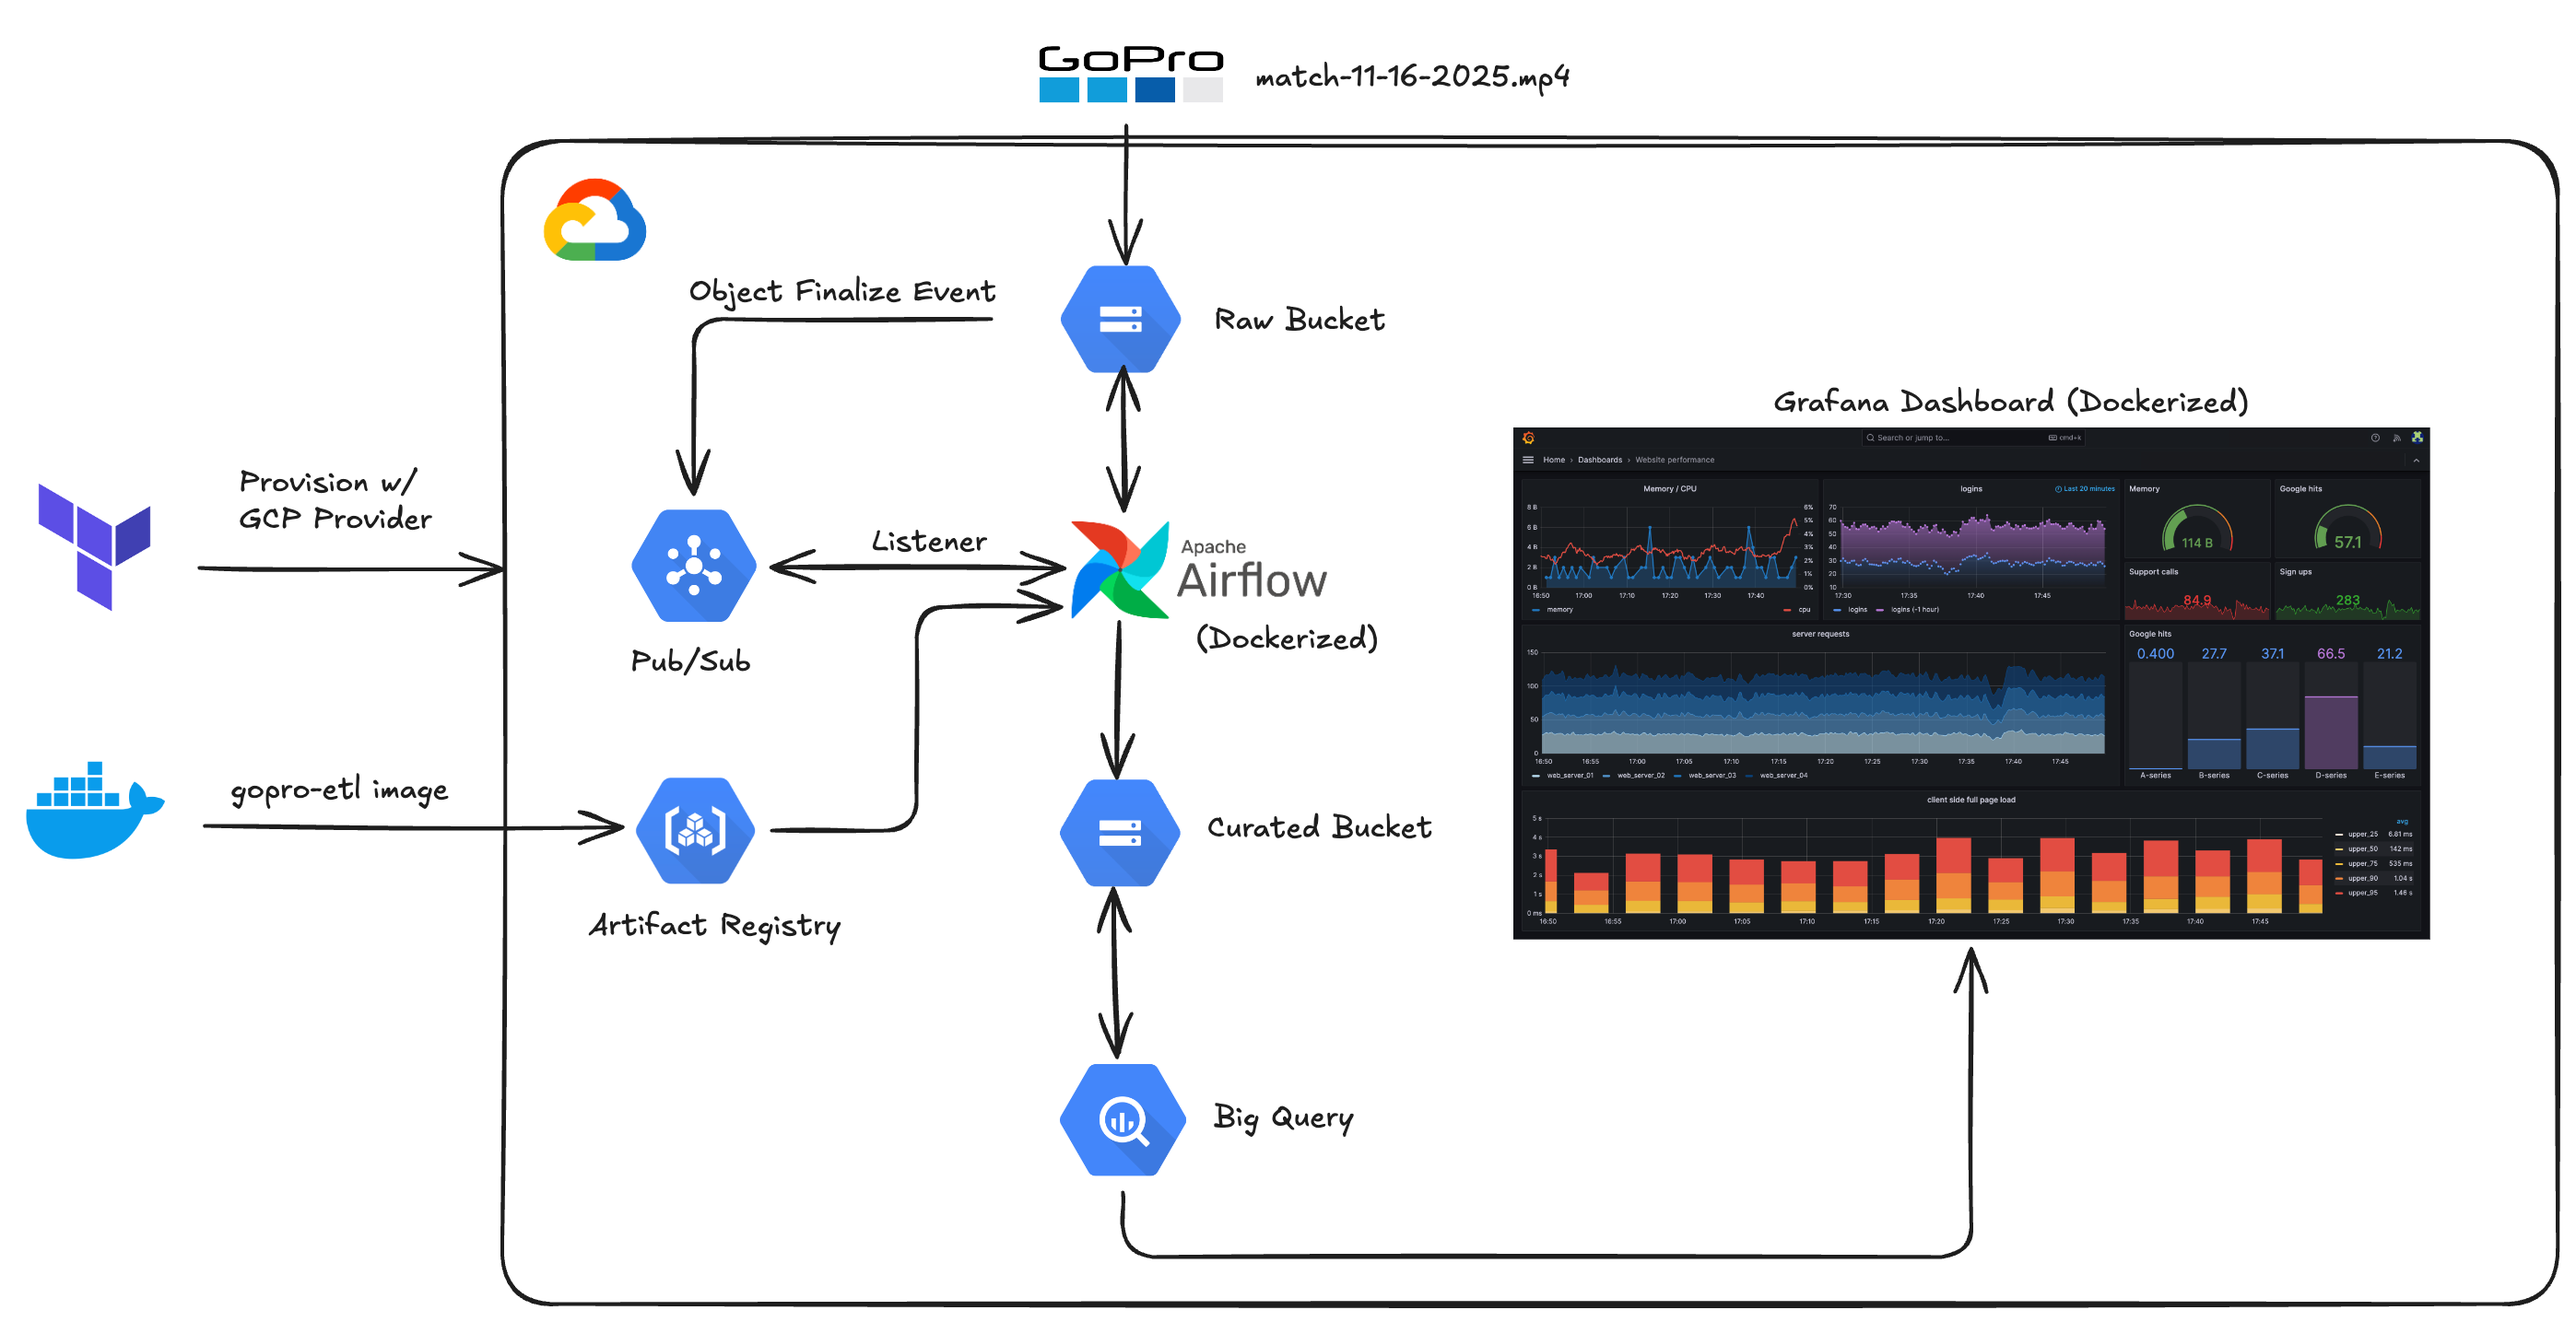
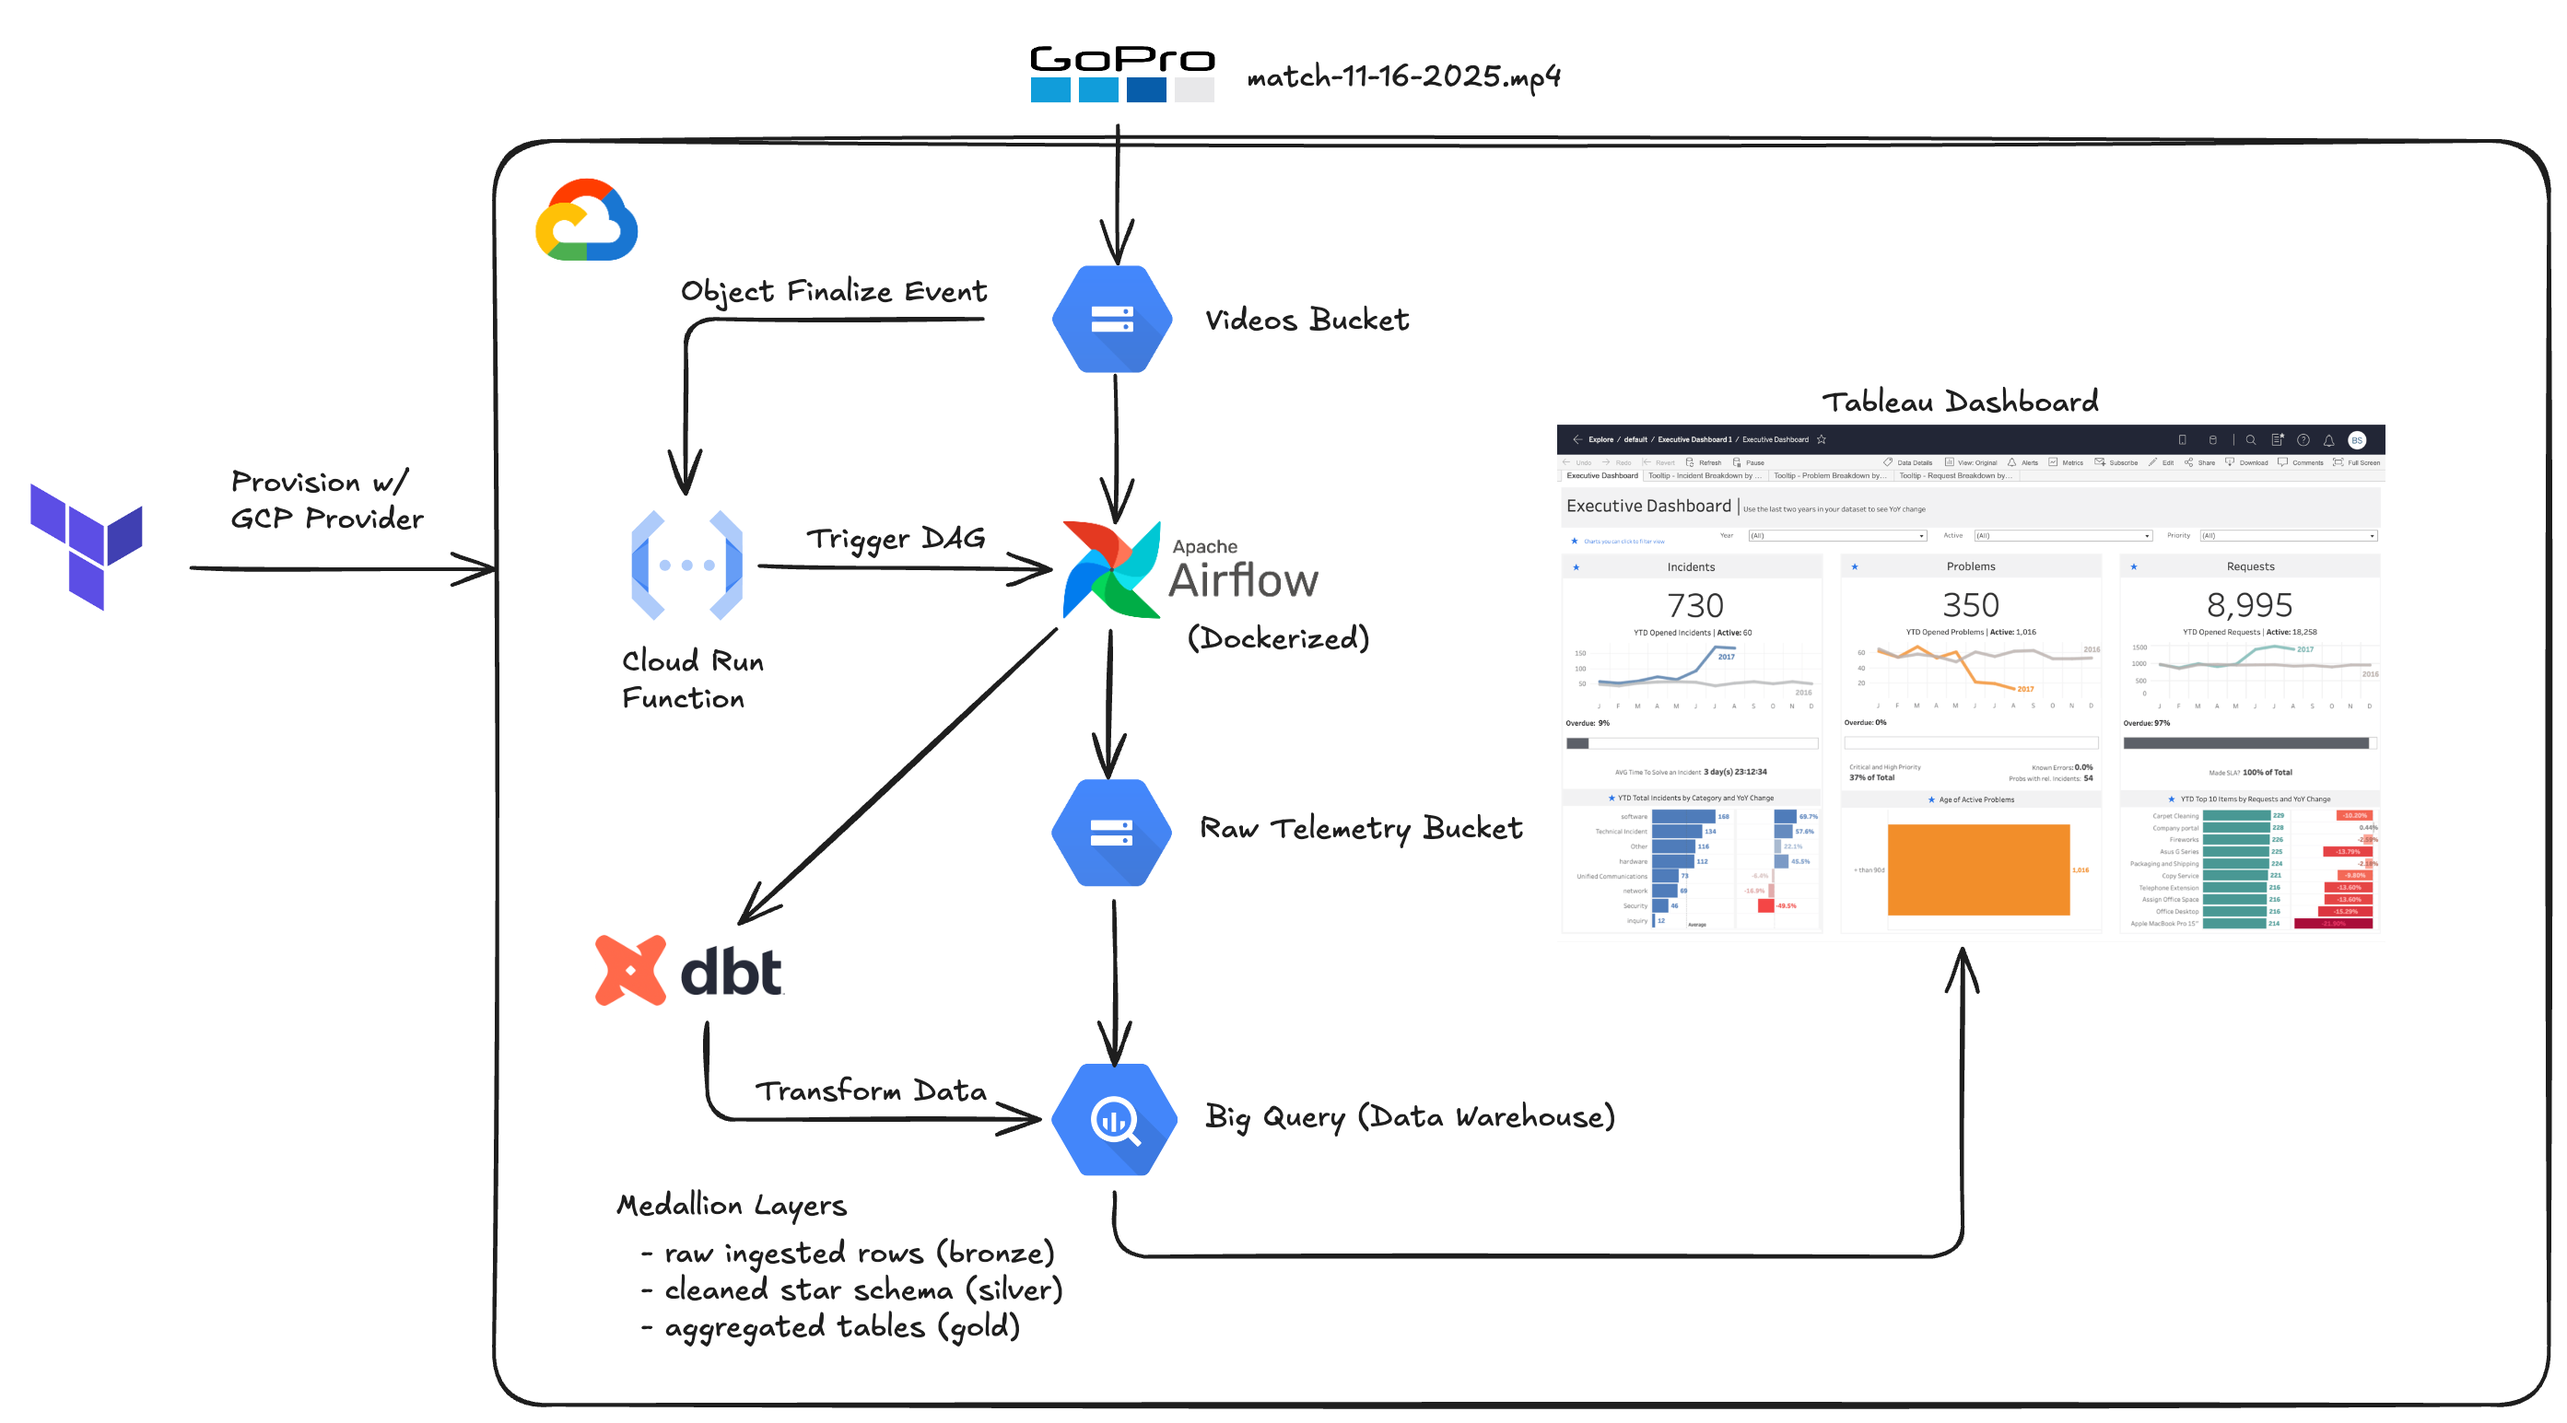
update architecture and readme

diff --git a/README.md b/README.md
@@ -1,30 +1,107 @@
-# GoPro Telemetry Analysis
+# GoPro Telemetry Pipeline
 
-## Project Overview
-
-This project implements a fully serverless data pipeline on Google Cloud Platform (GCP) to extract and visualize GPMF telemetry from GoPro videos. When a raw .mp4 file is uploaded to a Google Cloud Storage (GCS) bucket, a Storage Object Finalize event publishes a message to Pub/Sub. A self-hosted Airflow instance (running in Docker) consumes this message to trigger a custom ETL workflow using a containerized GoPro parser stored in Artifact Registry. The workflow extracts embedded GPS, accelerometer, and gyroscope streams and writes the processed outputs to a curated GCS bucket. These curated datasets are then loaded into BigQuery for scalable analytics. Grafana connects directly to BigQuery to provide rich, time-series dashboards for insights into speed, movement, and overall performance. The entire system is provisioned with Terraform, creating a cost-efficient, event-driven, and easily extensible architecture for future analytics and visualization enhancements.
+An end-to-end ELT data pipeline on Google Cloud Platform (GCP) that extracts telemetry from GoPro .mp4 files and surfaces insights via Tableau dashboards. When a raw .mp4 file is uploaded to GCS, it triggers an Airflow DAG that extracts embedded GPMF telemetry (GPS, accelerometer, gyroscope), loads the raw data into BigQuery, then runs dbt transformations to produce clean, aggregated tables for Tableau.
 
 ## System Architecture
 
 ![System Architecture](assets/gcp-v3.png)
 
-## Technologies
+## Pipeline Flow
 
-- GoPro (GPMF) – Raw video + sensor telemetry
-- GCS – Raw and curated data storage
-- Pub/Sub – Notifications on new video uploads
-- Airflow (Dockerized) – ETL orchestration
-- Artifact Registry – ETL container storage
-- Docker – Containerized ETL environment
-- BigQuery – Telemetry analytics
-- Grafana – BigQuery-powered dashboards
-- Terraform – IaC for all GCP resources
+```
+GoPro .mp4 upload
+  -> GCS Videos Bucket          (raw file landing zone)
+  -> Cloud Run Function          (triggered by GCS Object Finalize event)
+  -> Airflow DAG (Dockerized)    (orchestrates all downstream steps)
+  -> py-gpmf-parser              (PythonOperator, extracts telemetry from .mp4)
+  -> GCS Raw Telemetry Bucket    (extracted Parquet files, one per stream)
+  -> BigQuery Load               (GCS -> BQ raw dataset)
+  -> dbt (via Astronomer Cosmos) (transforms data through medallion layers)
+  -> Tableau Public              (connects to Gold mart tables via CSV export)
+```
 
-## Triggering the manual extract DAG with inputs
+## Technology Stack
 
-The `gopro_gpmf_extract_manual` DAG now exposes typed `params`, so the Airflow UI shows an input form when you trigger it. From the DAG’s Grid view, click **Trigger DAG w/ config**, fill in:
+| Component       | Tool                        | Notes                                      |
+| --------------- | --------------------------- | ------------------------------------------ |
+| Cloud Platform  | Google Cloud Platform (GCP) |                                            |
+| File Storage    | Google Cloud Storage (GCS)  | Two buckets: videos and raw telemetry      |
+| Triggering      | Cloud Run Function          | Calls Airflow REST API on GCS finalize     |
+| Orchestration   | Apache Airflow (Dockerized) | Runs locally via Docker Compose            |
+| GPMF Extraction | py-gpmf-parser              | PythonOperator, no custom Docker image     |
+| Data Warehouse  | Google BigQuery             | Hosts all three medallion layers           |
+| Transformation  | dbt-bigquery + Cosmos       | Cosmos exposes dbt models as Airflow tasks |
+| Visualization   | Tableau Public              | Fed via CSV export from BigQuery Gold      |
+| IaC             | Terraform (GCP provider)    | Provisions all GCP resources               |
 
-- `bucket`: GCS bucket that holds the uploaded file (defaults to `gopro-raw-data-bucket`)
-- `object_name`: Path to the existing GoPro file inside that bucket (required)
+## Medallion Architecture
 
-Those values are passed to Cloud Run as environment variables `RAW_BUCKET` and `OBJECT_NAME` for the extraction job.
+All three layers live in BigQuery as separate datasets.
+
+### Bronze — `raw.*`
+
+Raw ingested rows, no transformations. Immutable historical record.
+
+- `raw.telemetry_samples`
+
+### Silver — `intermediate.*`
+
+Kimball dimensional model. Cleaned, typed, deduplicated.
+
+- `intermediate.fact_telemetry_sample` — one row per sensor reading; grain is one sample per timestamp per session
+- `intermediate.dim_session` — one row per GoPro recording (filename, start time, duration, activity type)
+- `intermediate.dim_date` — pre-populated date spine with calendar attributes
+
+### Gold — `mart.*`
+
+Aggregated, BI-ready tables. Tableau reads from these.
+
+- `mart.session_summary` — one row per session (max speed, total distance, elevation gain, duration)
+- `mart.speed_over_time` — time-series speed per session
+- `mart.gps_trace` — lat/lon per session for map visualizations
+
+## Data Quality
+
+dbt schema tests are declared at each layer:
+
+- `not_null` and `unique` on primary keys
+- `accepted_values` on categorical fields
+- `relationships` between fact and dimension tables
+- Airflow alerts on dbt test failures
+
+## Repository Structure
+
+```
+gopro-data-project/
+  airflow/          # DAG definitions, Docker Compose
+  dbt/              # dbt project (models, schema tests, sources)
+    models/
+      bronze/
+      silver/
+      gold/
+  terraform/        # all GCP infrastructure as code
+  .github/          # CI workflows
+```
+
+## Key Design Decisions
+
+- **ELT not ETL**: Raw data lands in BigQuery first, dbt transforms inside the warehouse
+- **No Artifact Registry**: py-gpmf-parser runs natively in Airflow's Python environment, eliminating the need for a custom Docker image and container registry
+- **Cloud Run Function over Pub/Sub**: Direct GCS → Cloud Run Function → Airflow REST API call removes an unnecessary intermediate messaging layer
+- **Cosmos for dbt orchestration**: Exposes each dbt model as an individual Airflow task for granular visibility and retry control
+- **Tableau Public**: Dashboard fed via CSV export from BigQuery Gold layer; live connection not available on free tier but acceptable at this project's cadence
+
+## Telemetry Streams
+
+| Stream        | Fields                               |
+| ------------- | ------------------------------------ |
+| GPS           | latitude, longitude, altitude, speed |
+| Accelerometer | x, y, z acceleration                 |
+| Gyroscope     | x, y, z rotation                     |
+
+## Infrastructure (Terraform-managed)
+
+- GCS buckets (videos, raw telemetry) with lifecycle policies
+- BigQuery datasets (raw, intermediate, mart) with schema definitions
+- Cloud Run Function with GCS event trigger binding
+- IAM service accounts with least-privilege role assignments
